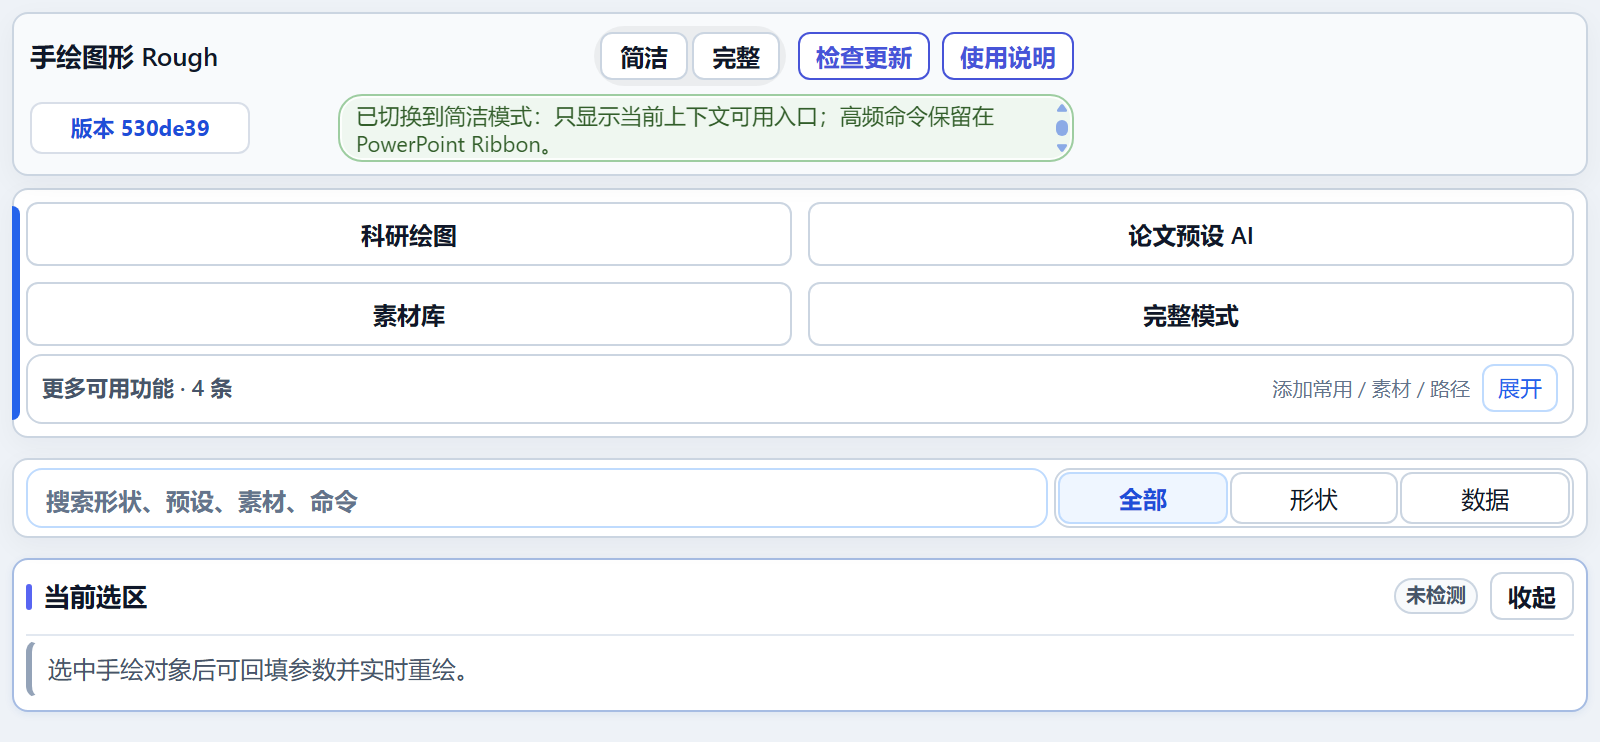
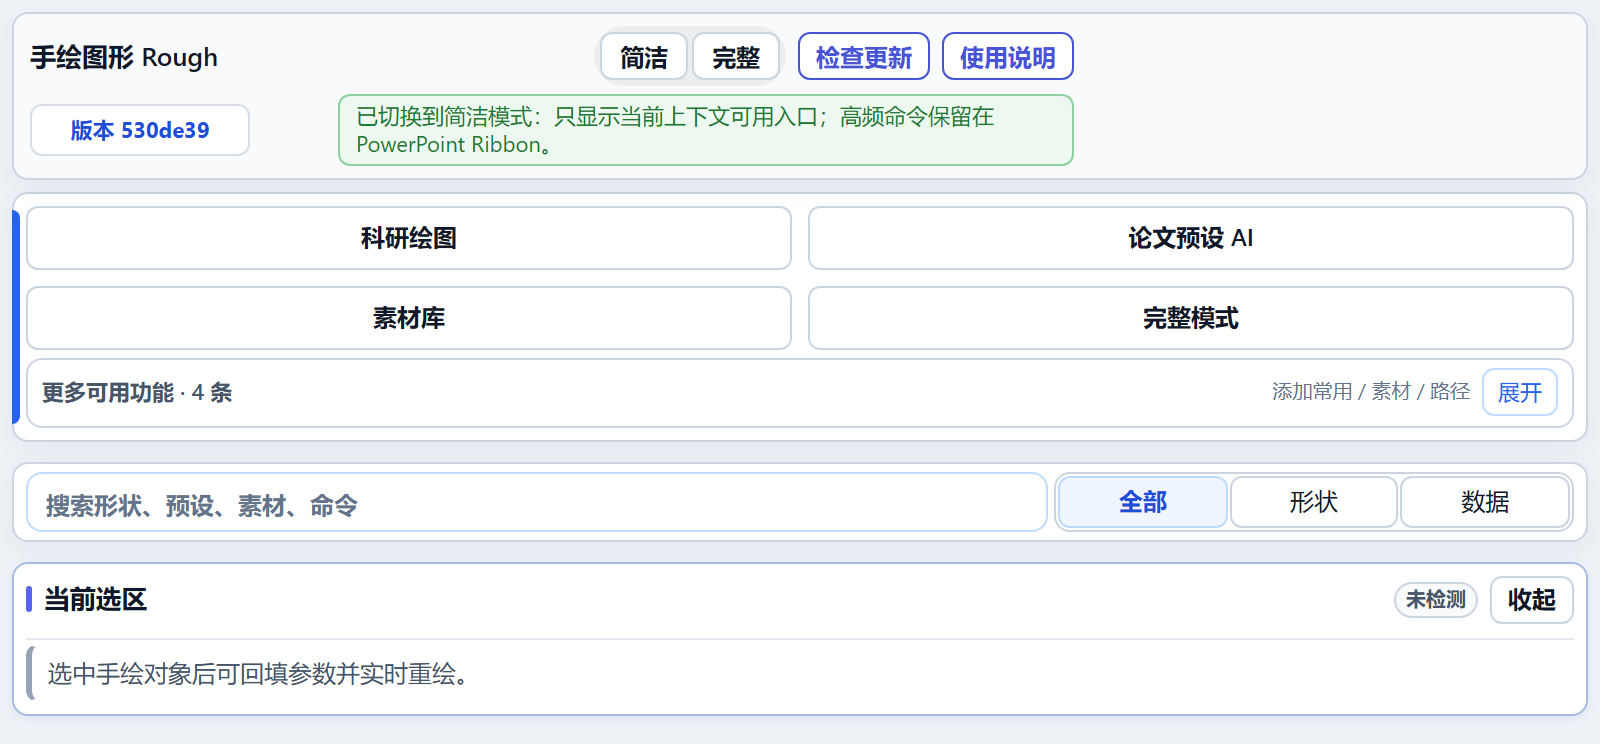
docs: capture compact status screenshots

Changed region(s): [[0.0, 0.124, 1.0, 0.9609], [0.4375, 0.062, 0.4688, 0.093], [0.0312, 0.062, 0.0625, 0.093]]

diff --git a/docs/target-mode-plan.md b/docs/target-mode-plan.md
@@ -104,6 +104,7 @@
 16. B600（已完成）：补齐更新消息的桥接合同；B596-B600 统一验证通过，下一个节点为 B601-B605。
 17. B601（已完成）：风格模板、快捷样式和参数跳转横向列表支持鼠标拖动与键盘滚动；加宽模板卡提升名称和摘要可读性，收起态状态条隐藏滚动条但保留换行。
 18. B602（已完成）：补齐更新服务的空响应、GitHub 频率限制和连接失败中文边界。
+19. B603（已完成）：重拍总览和风格说明截图，使示例状态保持收起成功态，并反映加宽后的模板卡与横向拖动列表。
 
 ### 下一批次方向
 
@@ -142,6 +143,7 @@
 - B600：前端新增宿主消息时必须同步 `bridge-contract.mjs`。B596-B600 统一验证中，完整 `npm.cmd test`、`npm.cmd run build:ui` 和 Release `scripts/build.ps1` 全部通过；Release 构建确认新 C# 服务可编译并完成 Ribbon 图标验证，产物仅暂存未打包安装。
 - B601：横向内容必须提供拖动、方向键、中文 aria-label 和提示；预览卡不得用过窄固定宽度截断关键文本；状态条收起时隐藏滚动器，展开时仍保留长文滚动。
 - B602：网络异常必须转成可操作中文提示；空响应和限流不得暴露原始空引用或让用户误判插件故障。
+- B603：说明截图不得把浏览器无宿主的长错误展开态当成正常用户状态；示例应展示绿色收起状态、真实上下文徽标和当前控件尺寸。
 
 ## 关键里程碑
 
